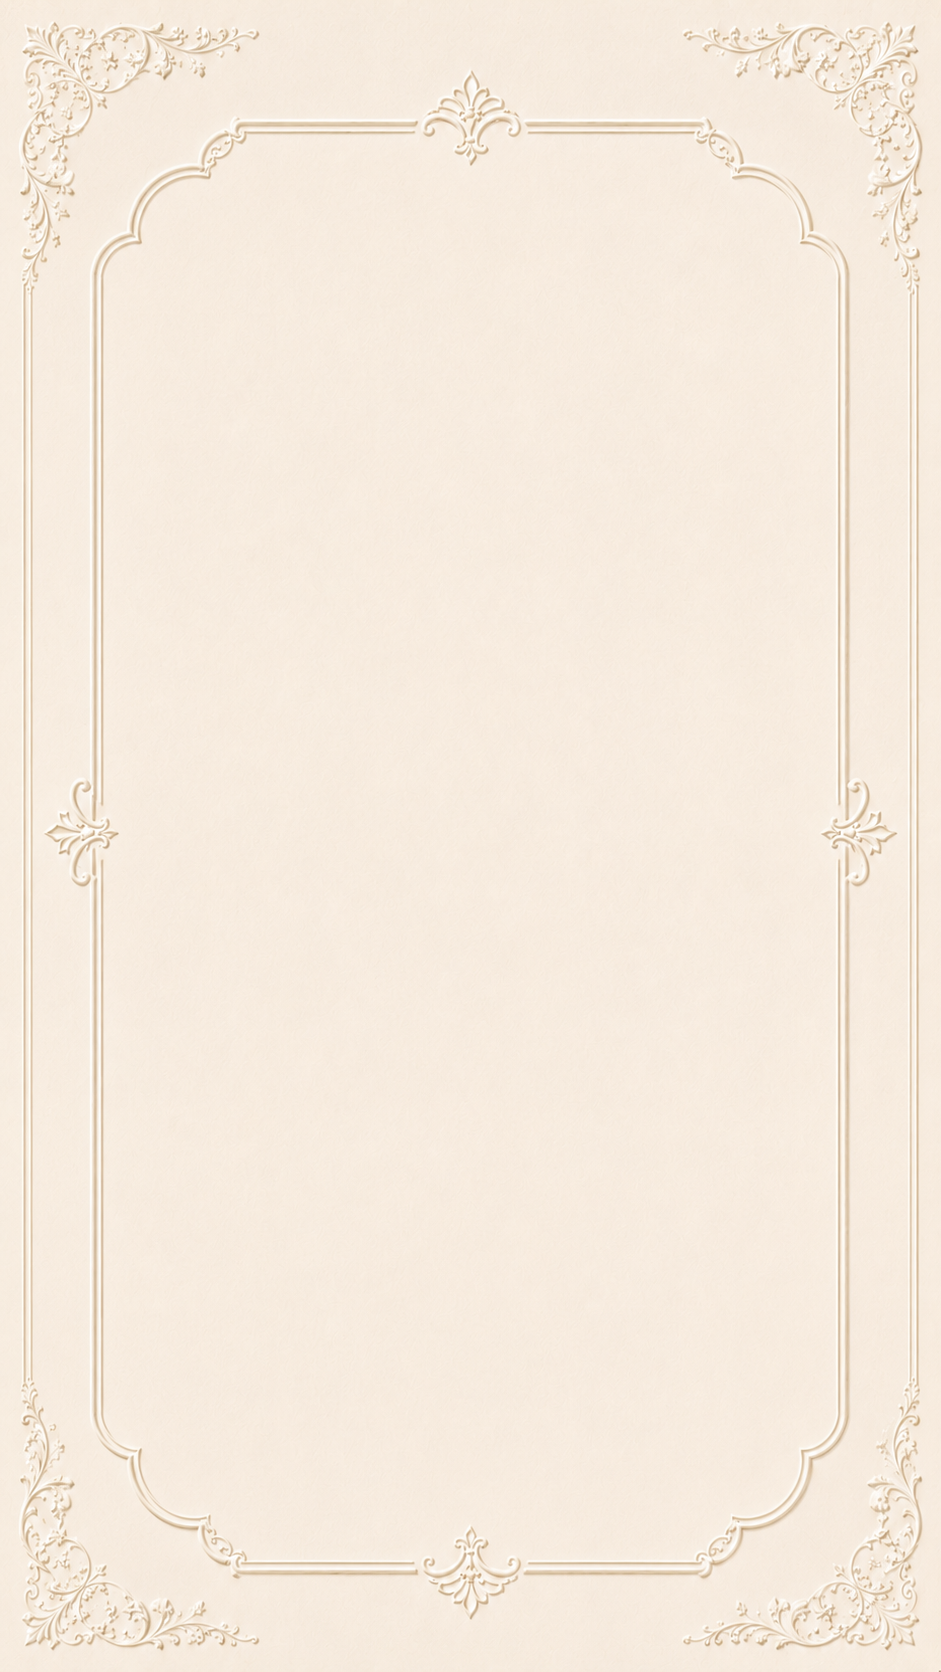
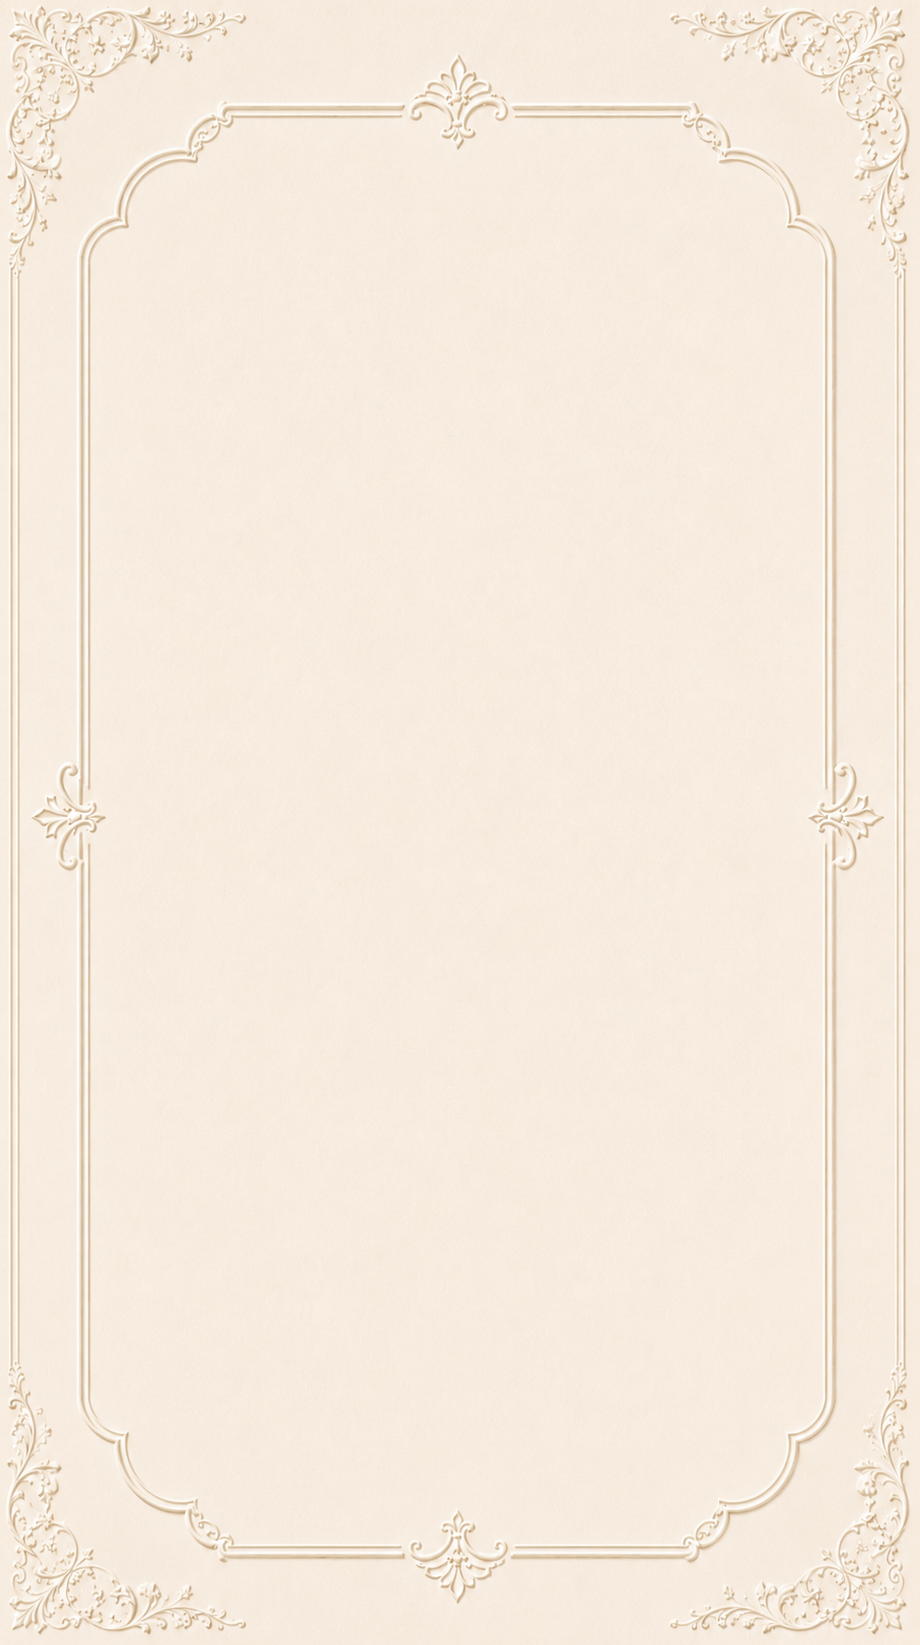
Update InvitationCard and background2.png

Changed region(s): [[0.0, 0.0, 1.0, 0.9921], [0.8522, 0.8681, 0.8826, 0.8991], [0.1217, 0.8681, 0.1522, 0.8991]]

diff --git a/src/components/InvitationCard.tsx b/src/components/InvitationCard.tsx
@@ -247,9 +247,7 @@ export default function InvitationCard() {
         </div>
         <div className="w-full h-full min-h-[800px] px-12 py-24 flex flex-col items-center justify-center text-center relative z-10 overflow-hidden">
 
-          <motion.div variants={fadeUp}>
-            <GeometricBorder className="w-48 h-5 mb-5 opacity-90" />
-          </motion.div>
+       
 
           <motion.p variants={fadeUp} className="font-serif text-[30px] mb-1 text-[#8B6914] drop-shadow-sm">
             بِسْمِ ٱللَّهِ ٱلرَّحْمَـٰنِ ٱلرَّحِيمِ